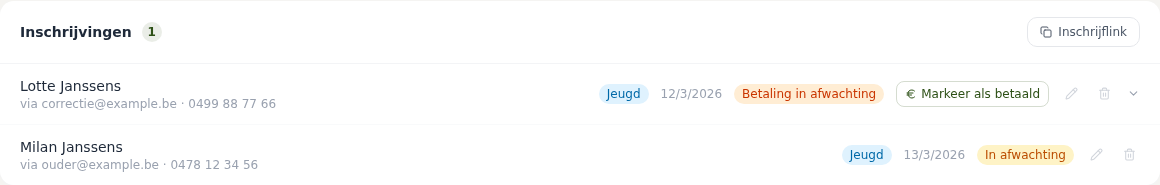
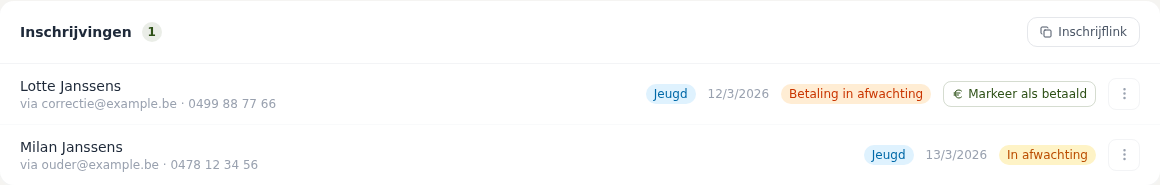
fix: simplify enrollment row actions

diff --git a/frontend/app/(dashboard)/dashboard/lessons/[id]/page.tsx b/frontend/app/(dashboard)/dashboard/lessons/[id]/page.tsx
@@ -1720,6 +1720,8 @@ function EnrollmentRow({
   const [cancelling, setCancelling] = useState(false);
   const [markingPaid, setMarkingPaid] = useState(false);
   const [editing, setEditing] = useState(false);
+  const [showActionsMenu, setShowActionsMenu] = useState(false);
+  const [confirmCancelOpen, setConfirmCancelOpen] = useState(false);
   const hasResponses = enrollment.formResponses.length > 0;
   const isCancelled = enrollment.status === "Cancelled";
   const isPendingPayment = enrollment.status === "PendingPayment";
@@ -1815,57 +1817,67 @@ function EnrollmentRow({
               Markeer als betaald
             </button>
           )}
-          {!isCancelled && (
+          <div className="relative">
             <button
+              type="button"
               onClick={(e) => {
                 e.stopPropagation();
-                setEditing(true);
+                setShowActionsMenu((v) => !v);
               }}
-              aria-label={`Inschrijving van ${enrollment.studentName} aanpassen`}
-              className="p-1 rounded-md text-gray-300 hover:text-tennis-green hover:bg-tennis-green/5 transition-colors"
+              aria-label={`Acties voor inschrijving van ${enrollment.studentName}`}
+              className="w-8 h-8 flex items-center justify-center rounded-md border border-gray-100 text-gray-400 hover:text-gray-700 hover:bg-gray-50 transition-colors"
             >
-              <Pencil size={13} />
+              <MoreVertical size={15} />
             </button>
-          )}
-          {!isCancelled && (
-            <AlertDialog>
-              <AlertDialogTrigger asChild>
-                <button
-                  onClick={(e) => e.stopPropagation()}
-                  disabled={cancelling}
-                  aria-label={`Inschrijving van ${enrollment.studentName} annuleren`}
-                  className="p-1 rounded-md text-gray-300 hover:text-red-500 hover:bg-red-50 transition-colors disabled:opacity-50"
-                >
-                  <Trash2 size={13} />
-                </button>
-              </AlertDialogTrigger>
-              <AlertDialogContent onClick={(e) => e.stopPropagation()}>
-                <AlertDialogHeader>
-                  <AlertDialogTitle>Inschrijving annuleren?</AlertDialogTitle>
-                  <AlertDialogDescription>
-                    De inschrijving van {enrollment.studentName} wordt op
-                    geannuleerd gezet en de plaats komt weer vrij. De
-                    formulierantwoorden blijven bewaard.
-                  </AlertDialogDescription>
-                </AlertDialogHeader>
-                <AlertDialogFooter>
-                  <AlertDialogCancel>Terug</AlertDialogCancel>
-                  <AlertDialogAction
-                    onClick={handleCancelEnrollment}
-                    className="bg-red-600 hover:bg-red-700"
+
+            {showActionsMenu && (
+              <div
+                onClick={(e) => e.stopPropagation()}
+                className="absolute right-0 top-full mt-1 z-50 min-w-48 rounded-lg border border-gray-100 bg-white py-1 text-sm shadow-lg"
+              >
+                {!isCancelled && (
+                  <button
+                    type="button"
+                    onClick={() => {
+                      setShowActionsMenu(false);
+                      setEditing(true);
+                    }}
+                    className="w-full flex items-center gap-2 px-3 py-2 text-left text-gray-700 hover:bg-tennis-green/5 hover:text-tennis-green"
                   >
-                    Annuleren
-                  </AlertDialogAction>
-                </AlertDialogFooter>
-              </AlertDialogContent>
-            </AlertDialog>
-          )}
-          {hasResponses &&
-            (expanded ? (
-              <ChevronUp size={13} className="text-gray-400" />
-            ) : (
-              <ChevronDown size={13} className="text-gray-400" />
-            ))}
+                    <Pencil size={13} />
+                    Inschrijving aanpassen
+                  </button>
+                )}
+                {hasResponses && (
+                  <button
+                    type="button"
+                    onClick={() => {
+                      setShowActionsMenu(false);
+                      setExpanded((v) => !v);
+                    }}
+                    className="w-full flex items-center gap-2 px-3 py-2 text-left text-gray-700 hover:bg-gray-50"
+                  >
+                    {expanded ? <ChevronUp size={13} /> : <ChevronDown size={13} />}
+                    {expanded ? "Details verbergen" : "Details bekijken"}
+                  </button>
+                )}
+                {!isCancelled && (
+                  <button
+                    type="button"
+                    disabled={cancelling}
+                    onClick={() => {
+                      setShowActionsMenu(false);
+                      setConfirmCancelOpen(true);
+                    }}
+                    className="w-full flex items-center gap-2 px-3 py-2 text-left text-red-600 hover:bg-red-50 disabled:opacity-50"
+                  >
+                    <Trash2 size={13} />
+                    Inschrijving annuleren
+                  </button>
+                )}
+              </div>
+            )}
+          </div>
         </div>
       </div>
 
@@ -1890,6 +1902,28 @@ function EnrollmentRow({
         open={editing}
         onOpenChange={setEditing}
       />
+
+      <AlertDialog open={confirmCancelOpen} onOpenChange={setConfirmCancelOpen}>
+        <AlertDialogContent onClick={(e) => e.stopPropagation()}>
+          <AlertDialogHeader>
+            <AlertDialogTitle>Inschrijving annuleren?</AlertDialogTitle>
+            <AlertDialogDescription>
+              De inschrijving van {enrollment.studentName} wordt op geannuleerd
+              gezet en de plaats komt weer vrij. De formulierantwoorden blijven
+              bewaard.
+            </AlertDialogDescription>
+          </AlertDialogHeader>
+          <AlertDialogFooter>
+            <AlertDialogCancel>Terug</AlertDialogCancel>
+            <AlertDialogAction
+              onClick={handleCancelEnrollment}
+              className="bg-red-600 hover:bg-red-700"
+            >
+              Annuleren
+            </AlertDialogAction>
+          </AlertDialogFooter>
+        </AlertDialogContent>
+      </AlertDialog>
     </div>
   );
 }
@@ -1932,7 +1966,7 @@ function EnrollmentsSection({ seriesId }: { seriesId: string }) {
   return (
     <div
       id="enrollments"
-      className="bg-white rounded-xl shadow-sm shadow-gray-100 overflow-hidden scroll-mt-20"
+      className="bg-white rounded-xl shadow-sm shadow-gray-100 overflow-visible scroll-mt-20"
     >
       <div className="px-5 py-4 border-b border-gray-100 flex items-center justify-between">
         <div className="flex items-center gap-2.5">
